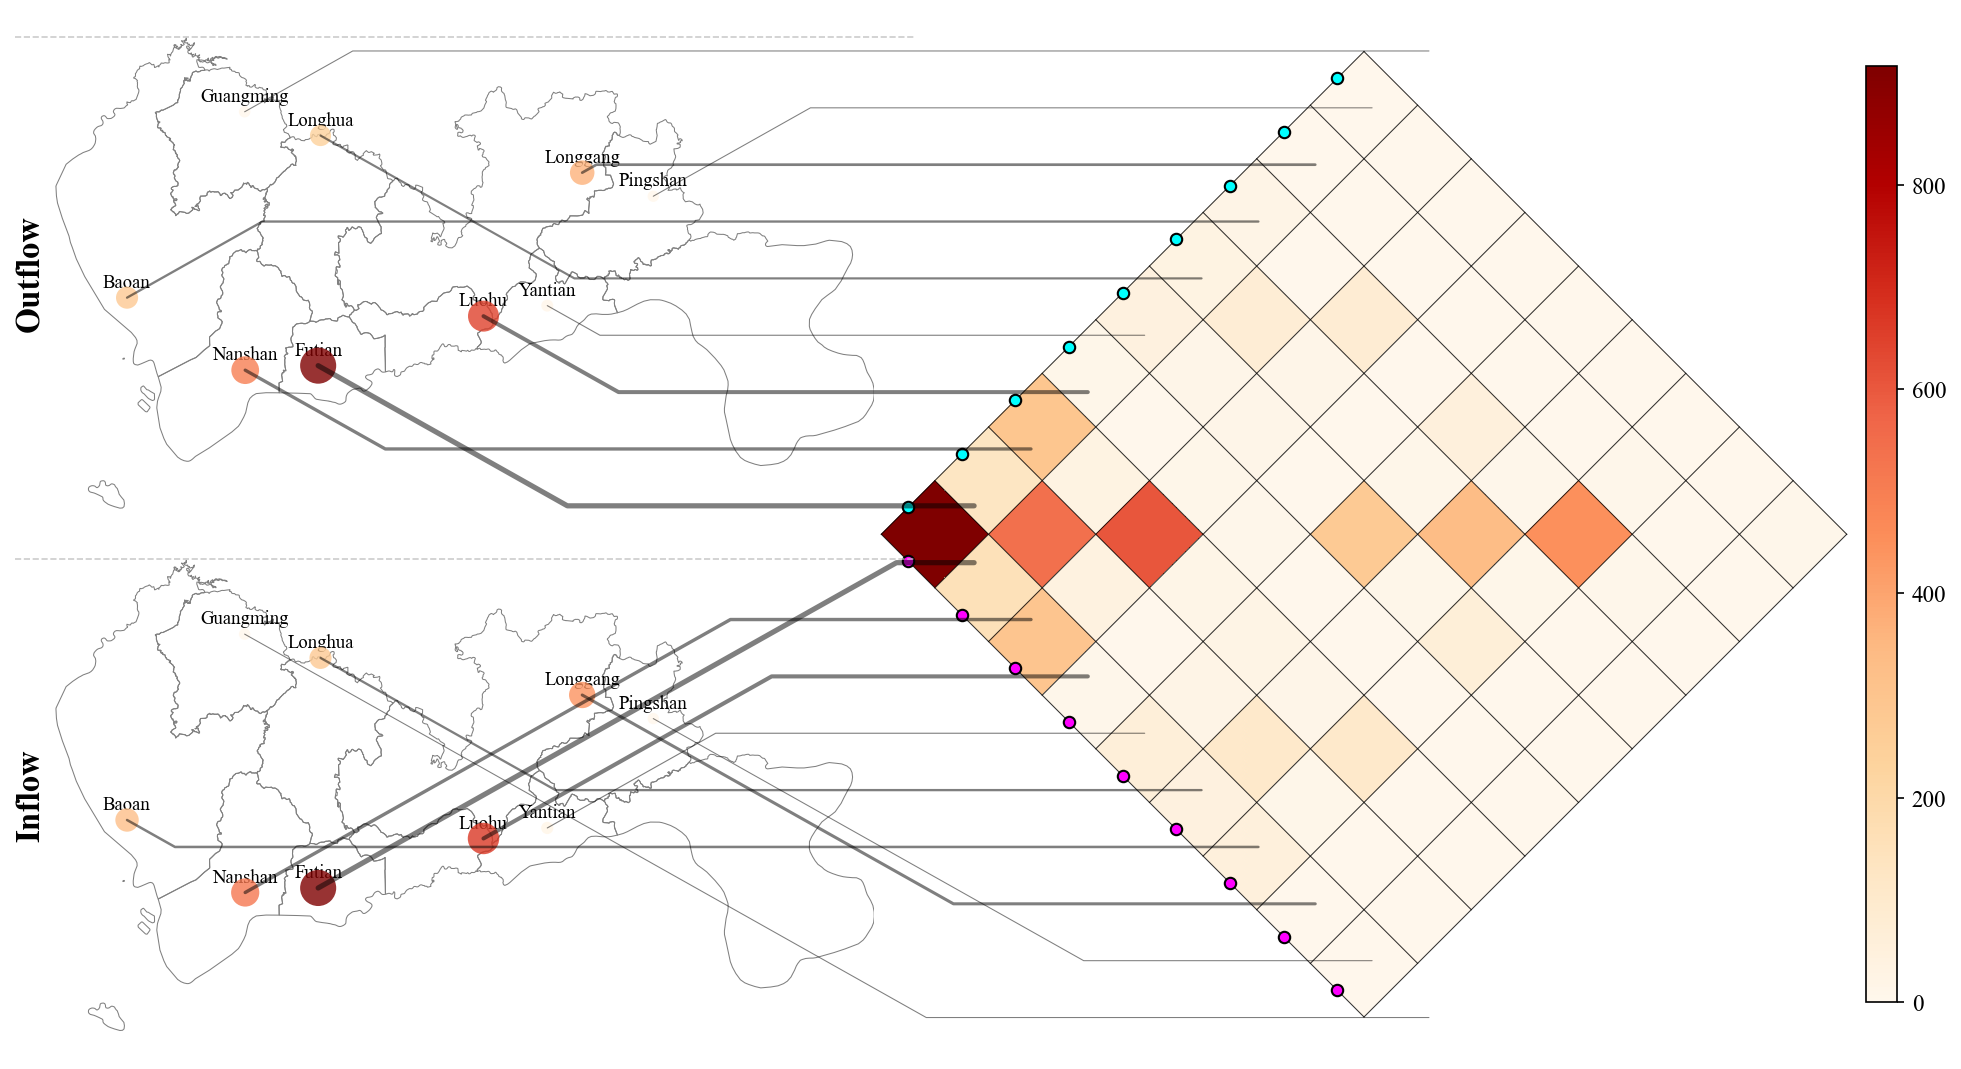
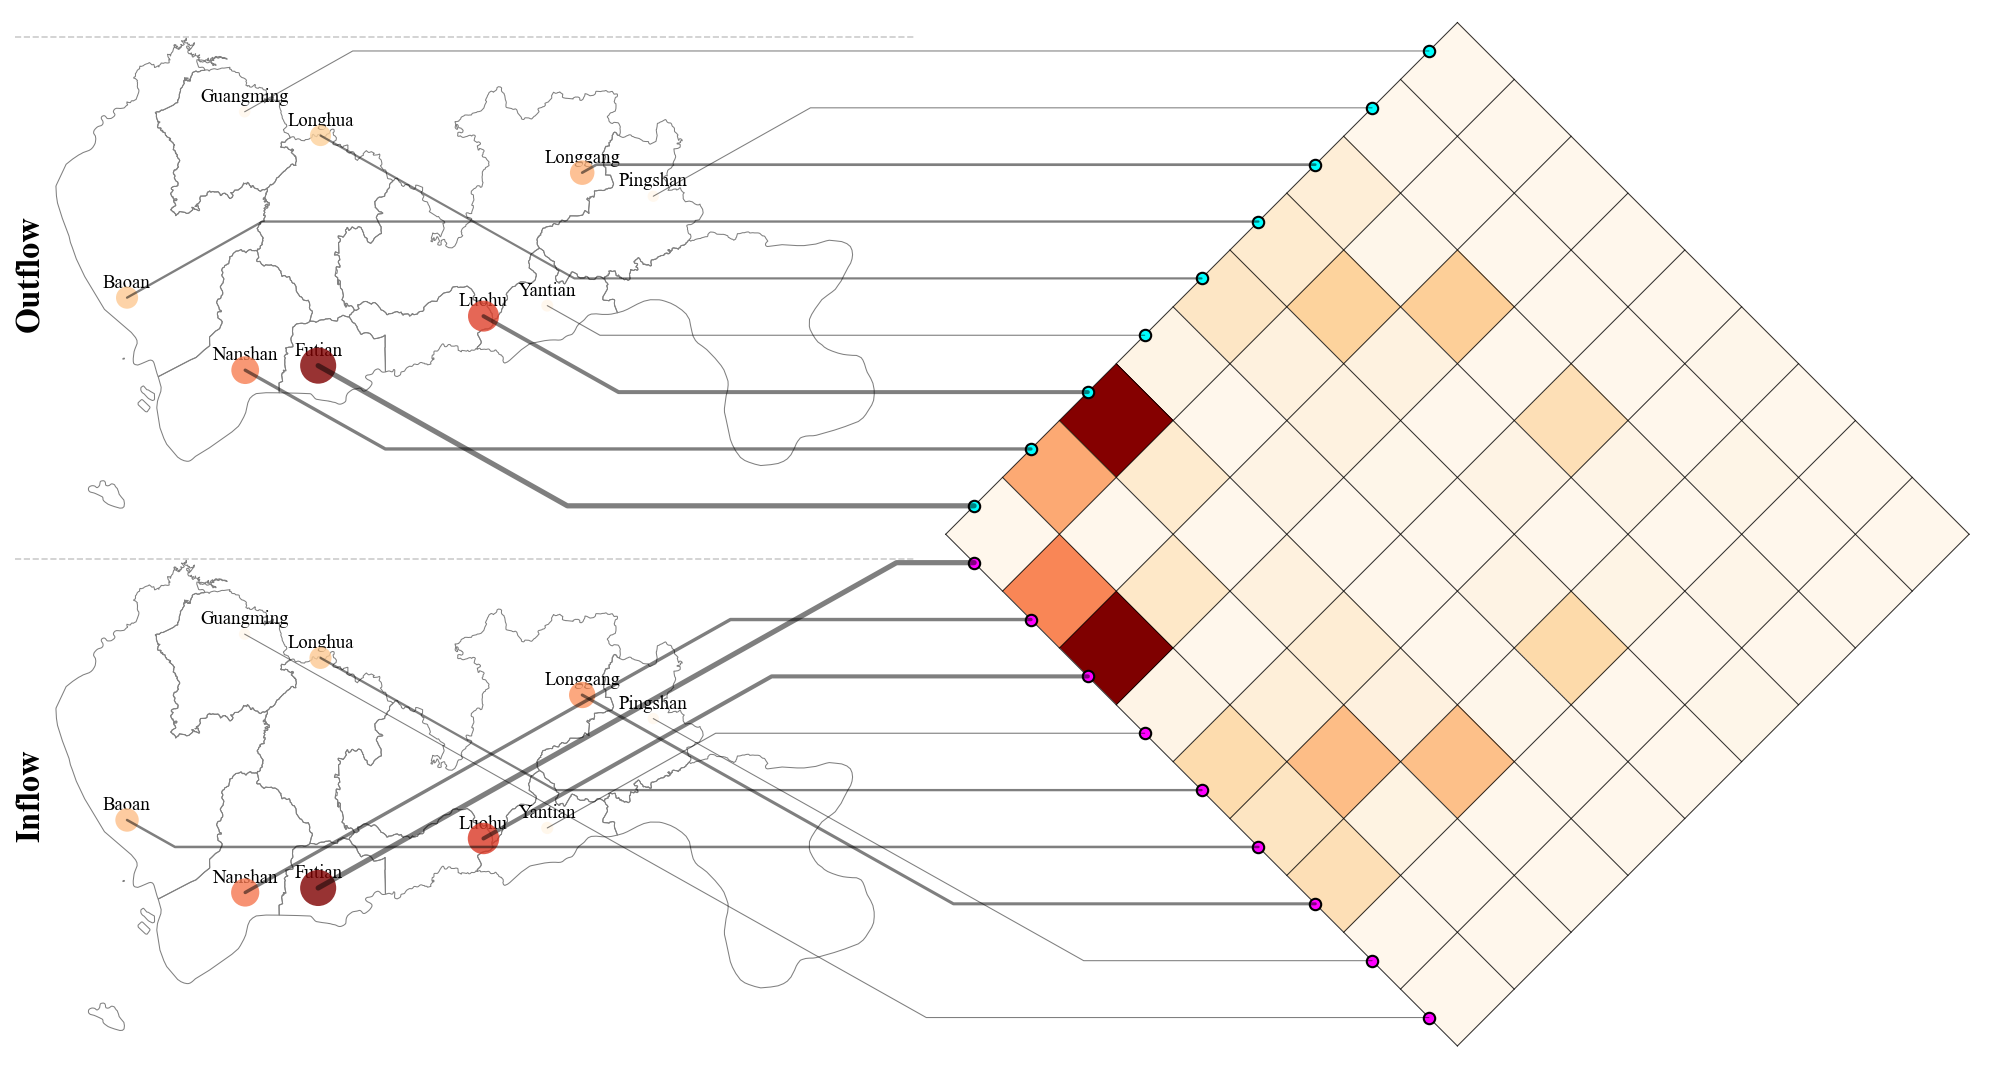
fix: use np.nan for self-flow cells so they render as pure white when include_self_flows=False

diff --git a/geoflowkit/visualization/maptrix.py b/geoflowkit/visualization/maptrix.py
@@ -196,7 +196,7 @@ class MapTrixVisualizer:
                 if rz in raw_idx and cz in raw_idx:
                     full_matrix[ri, ci] = raw_matrix[raw_idx[rz], raw_idx[cz]]
         if not self.include_self_flows:
-            np.fill_diagonal(full_matrix, 0.0)
+            np.fill_diagonal(full_matrix, np.nan)
         self._full_matrix = full_matrix
 
         # Per-zone flows
@@ -254,6 +254,7 @@ class MapTrixVisualizer:
         # Build figure
         ax_map_o, ax_map_d, ax_matrix, im, transform = self._build_figure(fig)
         plt.subplots_adjust(hspace=0.01, wspace=-0.15, left=0.0001)
+        self._draw_colorbar(fig, ax_matrix)
         fig.canvas.draw()
         self._im = im
         self._transform = transform
@@ -262,9 +263,6 @@ class MapTrixVisualizer:
         if len(self.o_order_) > 1 or len(self.d_order_) > 1:
             ax_map_o, ax_map_d, ax_matrix = self._run_gp_optimisation(
                 fig, ax_map_o, ax_map_d, ax_matrix)
-
-        self._draw_colorbar(fig, ax_matrix)
-        fig.canvas.draw()
 
         self._debug_draw_matrix_anchors(fig, ax_matrix)
 
@@ -479,9 +477,11 @@ class MapTrixVisualizer:
             ax.set_ylim(mny - pady, mxy + pady)
 
     def _draw_matrix(self, ax):
+        cmap = plt.get_cmap(self.matrix_cmap)
+        cmap.set_bad('white')
         im, transform = _rotate_matrix(
             ax, self.matrix_,
-            cmap=self.matrix_cmap, vmin=self.vmin, vmax=self.vmax,
+            cmap=cmap, vmin=self.vmin, vmax=self.vmax,
         )
         for spine in ax.spines.values():
             spine.set_visible(False)

diff --git a/examples/demo_visualization.py b/examples/demo_visualization.py
@@ -104,6 +104,7 @@ fig2 = maptrix(
     figsize=(16, 9),
     center_weight=1.0,
     spacing_weight=8.0,
+    include_self_flows=False
 )
 fig2.savefig('demo_maptrix.png', dpi=150, bbox_inches='tight')
 print('Saved demo_maptrix.png')
